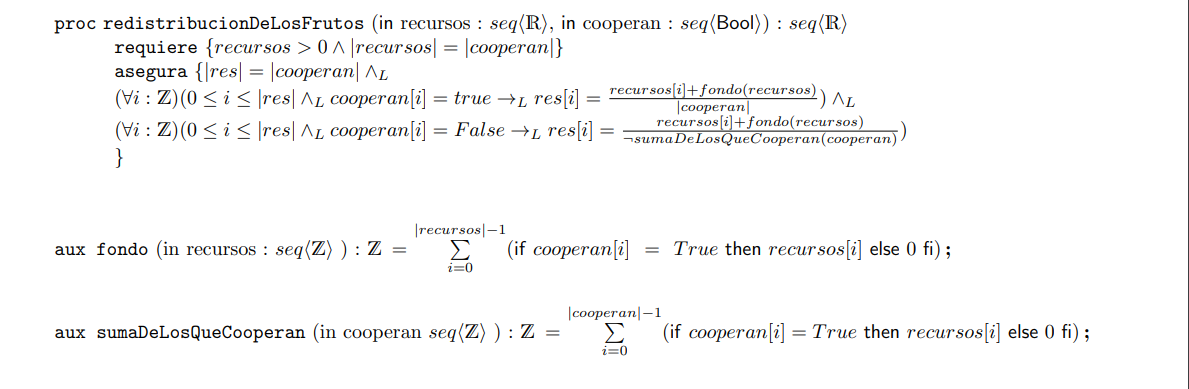
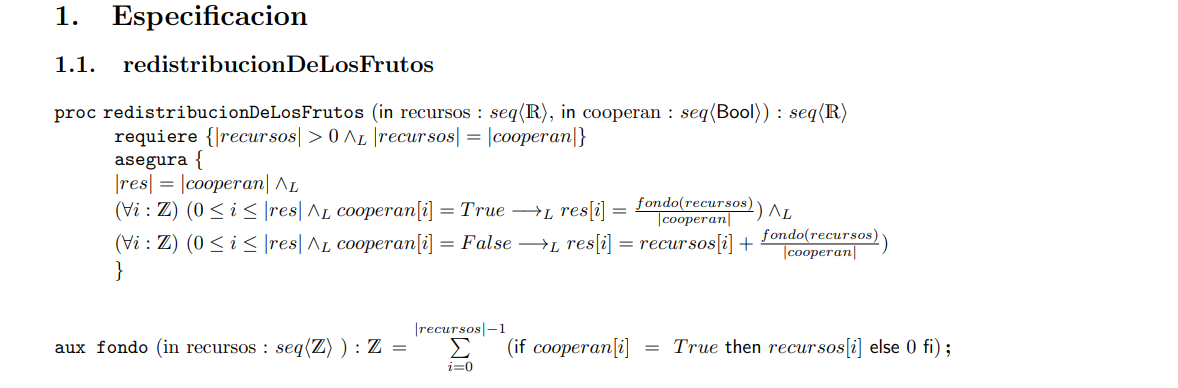
idea final Ejercicio1

diff --git a/Ejercicios/Ejercicios1.tex b/Ejercicios/Ejercicios1.tex
@@ -12,7 +12,7 @@
 	\requiere{|recursos| > 0 \yLuego |recursos| = |cooperan| }
 	\asegura {\\
  |res| = |cooperan| \yLuego \\ 
- \paraTodo[unalinea]{i}{\ent} {0 \leq i \leq |res|  \yLuego cooperan[i] = True \implicaLuego res[i] = \frac{recursos[i] + fondo(recursos)}{|cooperan|} }  \yLuego \\ \paraTodo[unalinea]{i}{\ent} {0 \leq i \leq |res| \yLuego cooperan[i] = False \implicaLuego res[i] = \frac{recursos[i] + fondo(recursos)}{\neg sumaDeLosQueCooperan(cooperan)}} \\
+ \paraTodo[unalinea]{i}{\ent} {0 \leq i \leq |res|  \yLuego cooperan[i] = True \implicaLuego res[i] = \frac{fondo(recursos)}{|cooperan|} }  \yLuego \\ \paraTodo[unalinea]{i}{\ent} {0 \leq i \leq |res| \yLuego cooperan[i] = False \implicaLuego res[i] = recursos[i] + \frac{fondo(recursos)}{|cooperan|}} \\
  }
 
 \end{proc}
@@ -22,13 +22,6 @@
 \aux{fondo}{in recursos : {\TLista{\ent}} }{\ent} {
 \sum\limits_{i=0} \limits^{|recursos|-1} 
 ( {\IfThenElse{cooperan[i] \hspace{0.15cm} = \hspace{0.15cm} True}{recursos[i]}{0}} )}
-
-\vspace{0.50cm}
-
-\aux{sumaDeLosQueCooperan}{in cooperan {\TLista{\ent}} }{{\ent}}{
-\sum\limits_{i=0} \limits^{|cooperan|-1}  
-( {\IfThenElse{cooperan[i]=True}{recursos[i]}{0}} )}
-
 
 
 \end{document}
